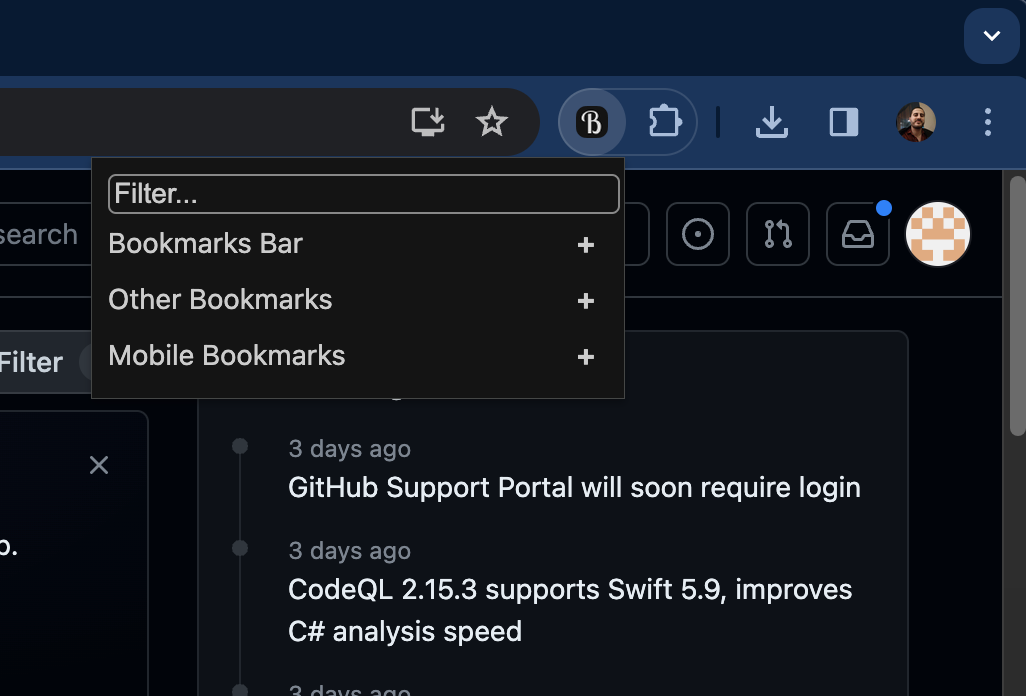
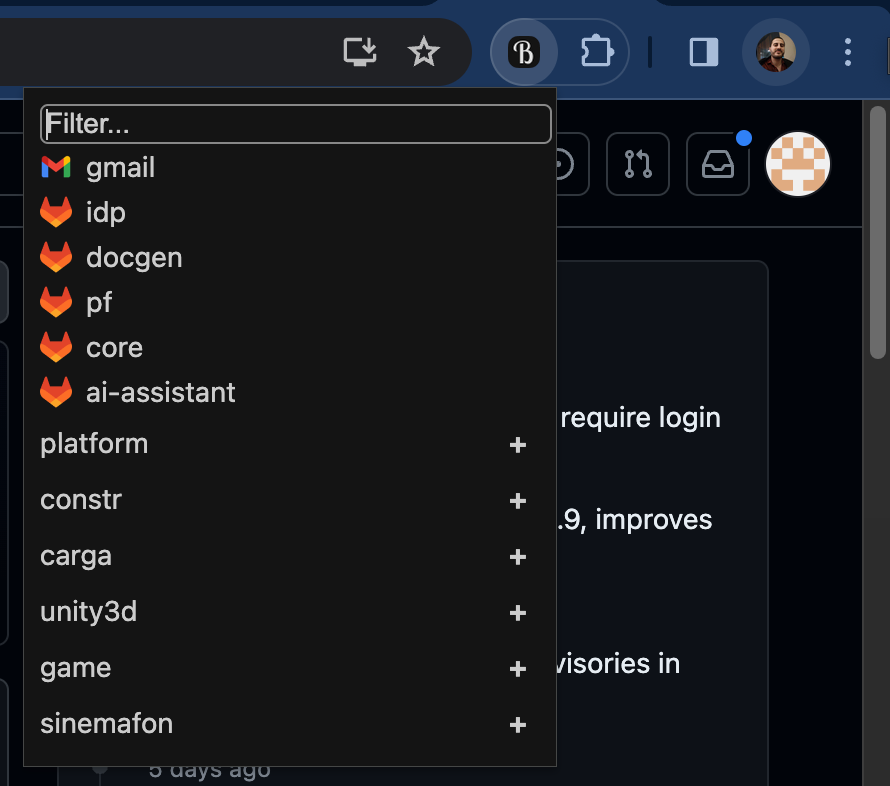
fix search & root

diff --git a/src/pages/popup/Popup.tsx b/src/pages/popup/Popup.tsx
@@ -12,7 +12,10 @@ const searchInBookmarks = (node: BookmarkTreeNode, searchTerm: string, path = []
   let matches = [];
   node.children.forEach(child => {
     const newPath = [...path, child];
-    if (child.title.toLowerCase().includes(searchTerm.toLowerCase())) {
+
+    const search = searchTerm.toLowerCase();
+
+    if (child.title?.toLowerCase?.().includes?.(search) || child.url?.toLowerCase?.().includes?.(search)) {
       matches.push(newPath);
     }
 
@@ -38,6 +41,10 @@ const Popup = () => {
   }, []);
 
   const rootBookmark = useMemo(() => bookmarks?.[0] || ({ children: [] } as BookmarkTreeNode), [bookmarks]);
+  const bookmarksBar = useMemo(
+    () => rootBookmark.children?.[0] || ({ children: [] } as BookmarkTreeNode),
+    [rootBookmark],
+  );
 
   const handleInputOnChange = (e: React.ChangeEvent<HTMLInputElement>) => {
     setSearchValue(e.target.value);
@@ -45,12 +52,12 @@ const Popup = () => {
 
   const filteredBookmarks = useMemo(() => {
     if (!searchValue.trim()) {
-      return rootBookmark.children || [];
+      return bookmarksBar.children || [];
     }
 
-    const matches = searchInBookmarks(rootBookmark, searchValue);
+    const matches = searchInBookmarks(bookmarksBar, searchValue);
     return formatMatches(matches);
-  }, [rootBookmark, searchValue]);
+  }, [bookmarksBar, searchValue]);
 
   return (
     <div>

diff --git a/src/pages/popup/components/SearchInput/SearchInput.tsx b/src/pages/popup/components/SearchInput/SearchInput.tsx
@@ -1,8 +1,14 @@
-import { FC } from 'react';
+import { FC, useRef, useEffect } from 'react';
 import styles from './SearchInput.module.scss';
 
 type SearchInputProps = React.DetailedHTMLProps<React.InputHTMLAttributes<HTMLInputElement>, HTMLInputElement>;
 
 export const SearchInput: FC<SearchInputProps> = ({ ...props }) => {
-  return <input className={styles.input} placeholder="Filter..." {...props} />;
+  const ref = useRef<HTMLInputElement>(null);
+
+  useEffect(() => {
+    ref.current?.focus();
+  }, []);
+
+  return <input ref={ref} className={styles.input} placeholder="Filter..." {...props} />;
 };
